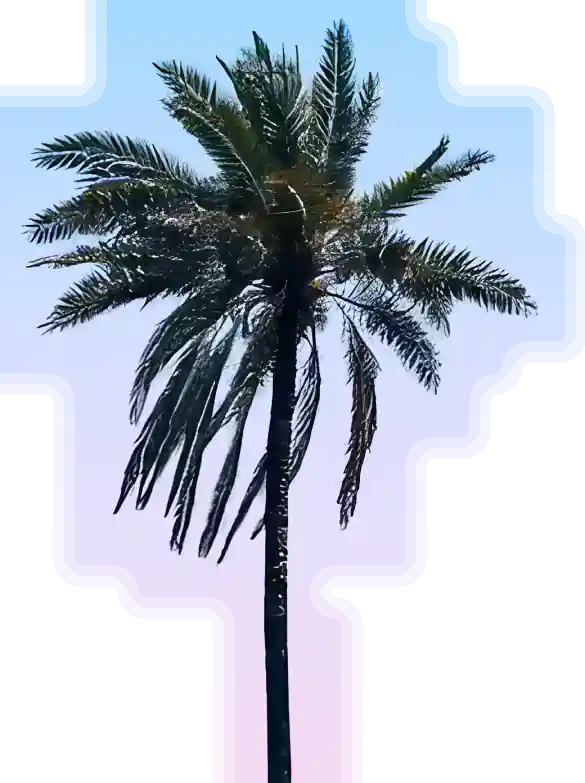
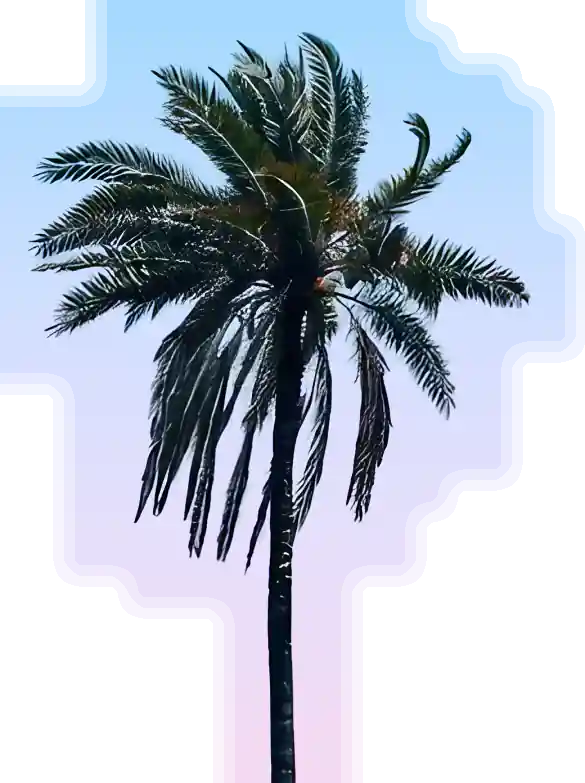
Reduce the homepage palm transfer while keeping early motion

Changed region(s): [[0.0308, 0.0307, 0.9231, 1.0], [0.5538, 0.7356, 0.5846, 0.7663]]

diff --git a/tests/hero-media.test.ts b/tests/hero-media.test.ts
@@ -24,17 +24,24 @@ const chromePath = [
   chromium.executablePath(),
 ].find((candidate) => candidate && fs.existsSync(candidate))
 
-test('the WebP loop preserves the source timing and matches its still', async () => {
+test('the palm loop stays at 24 fps, matches its still, and fits the media budget', async () => {
   const animation = await sharp(
     path.join(repoRoot, 'public', motion),
   ).metadata()
   const poster = await sharp(path.join(repoRoot, 'public', still)).metadata()
-  // The source MP4 has 121 frames at 24 fps. WebP stores whole milliseconds.
+  // The excerpt plays at the source rate of 24 fps. WebP stores whole milliseconds.
   const delays = Array.from(
-    { length: 121 },
+    { length: 70 },
     (_, i) => Math.round(((i + 1) * 1000) / 24) - Math.round((i * 1000) / 24),
   )
   assert.deepEqual(animation.delay, delays)
+  const assetSize = (file: string) =>
+    fs.statSync(path.join(repoRoot, 'public', file)).size
+  assert.ok(
+    assetSize(motion) + assetSize(still) <
+      assetSize('/images/hero-palm-motion.mp4'),
+    'both palm images together should be smaller than the original MP4',
+  )
   assert.equal(animation.loop, 0)
   assert.ok(animation.hasAlpha && poster.hasAlpha)
   assert.equal(animation.width, poster.width)
